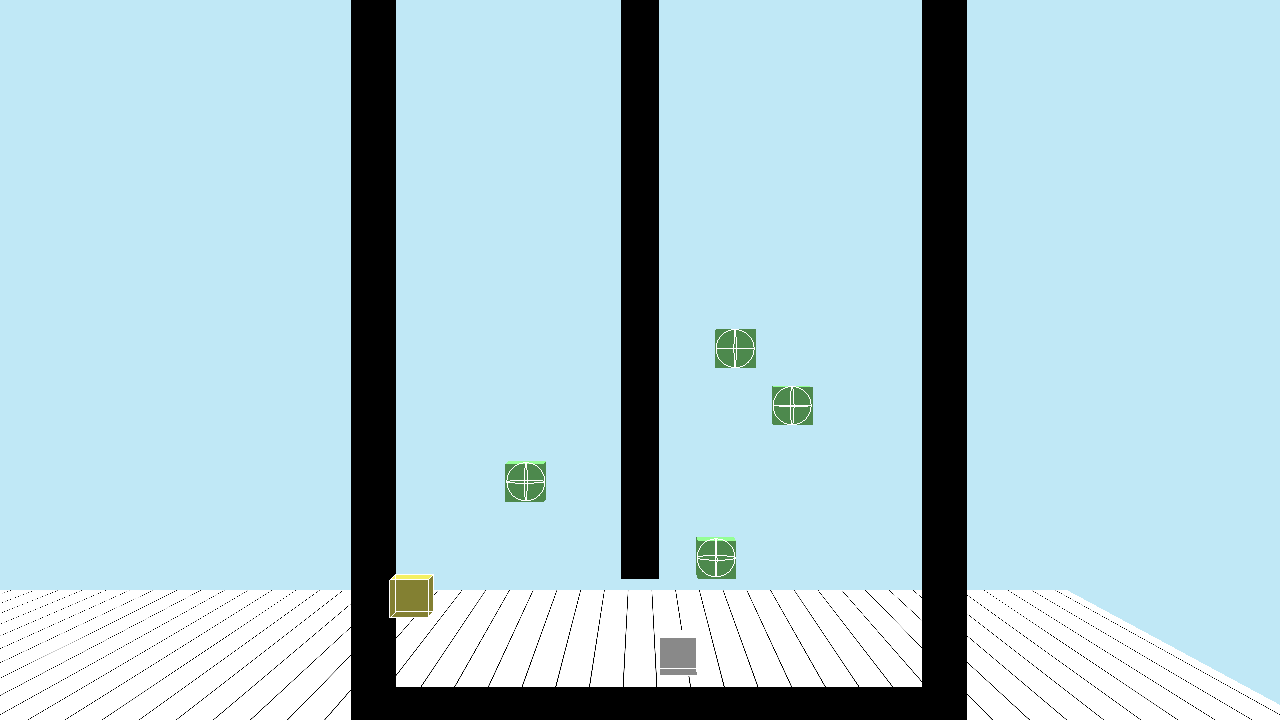
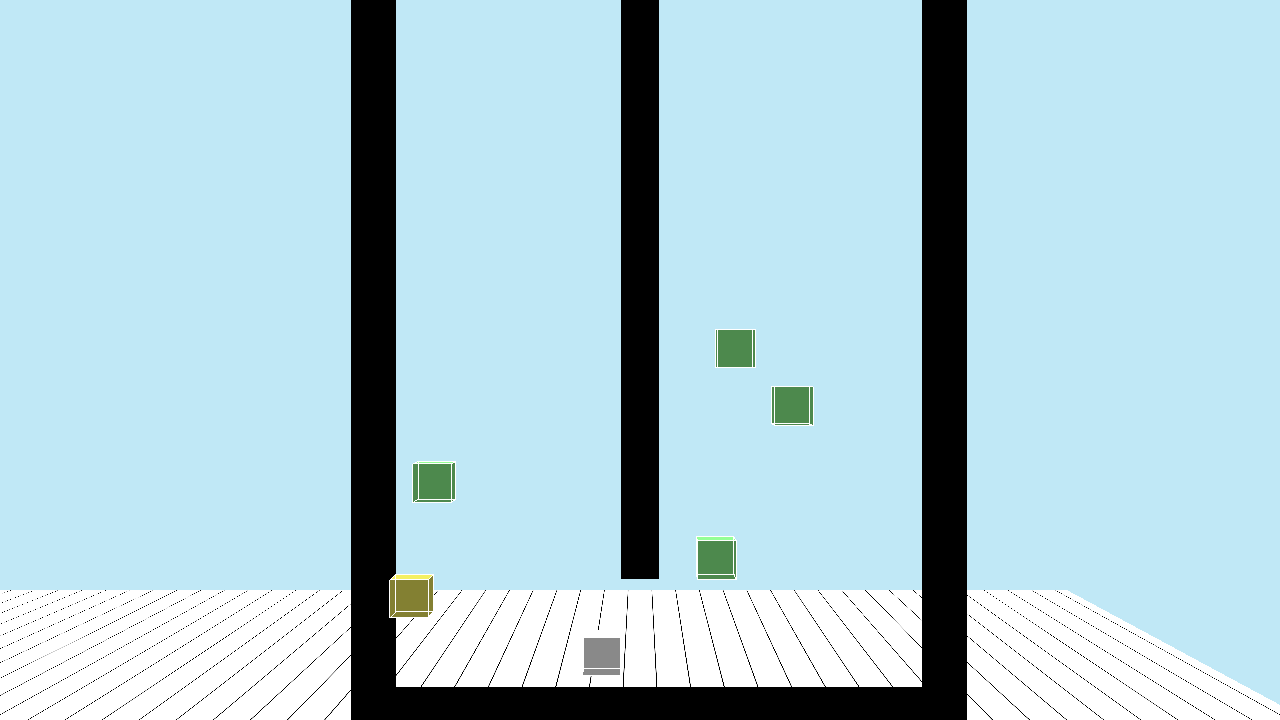
プレイヤーの位置に草の描画

diff --git a/Application/SpriteApp/ScreenApp/GameScreen.cpp b/Application/SpriteApp/ScreenApp/GameScreen.cpp
@@ -1,5 +1,11 @@
 #include "GameScreen.h"
 #include "Systems/Input/Input.h"
+#include "./Player/Player.h"
+#include "Systems/Camera/Camera.h"
+#include "../Core/WinApp/WinApp.h"
+// Math 
+#include "MathFunc.h"
+#include "Matrix4x4.h"
 
 void GameScreen::Initialize()
 {
@@ -36,8 +42,13 @@ void GameScreen::Initialize()
 	option_[5] = std::make_unique<UIBase>("Controller_5");
 	option_[5]->Initialize("Resources/JSON/UI/Controller_5.json");
 
+	grass_[0] = std::make_unique<UIBase>("Grass_0");
+	grass_[0]->Initialize("Resources/JSON/UI/Grass_0.json");
+	grass_[1] = std::make_unique<UIBase>("Grass_1");
+	grass_[1]->Initialize("Resources/JSON/UI/Grass_1.json");
 
-
+	//grass_[0]->SetCamera(camera_);
+	//grass_[1]->SetCamera(camera_);
 
 }
 
@@ -63,6 +74,31 @@ void GameScreen::Update()
 	{
 		option_[i]->Update();
 	}
+
+	///////////////////////////////////////////////////////////////////////////
+	// 
+	// 草のUIの更新処理
+	// 
+	///////////////////////////////////////////////////////////////////////////
+	for (UINT32 i = 0; i < numGrass_; i++)
+	{
+		Vector3 playerPos = player_->GetWorldTransform().translation_;
+		
+		Matrix4x4 matViewport = MakeViewportMatrix(0, 0, WinApp::kClientWidth, WinApp::kClientHeight, 0, 1);
+
+		Matrix4x4 matViewProjectionViewport = Multiply(camera_->GetViewMatrix(), Multiply(camera_->GetProjectionMatrix(), matViewport));
+
+		playerPos = Transform(playerPos, matViewProjectionViewport);
+		
+		playerPos += offset_;
+
+		grass_[i]->SetPosition(playerPos);
+
+		grass_[i]->Update();
+	}
+
+
+
 }
 
 void GameScreen::Draw()
@@ -71,6 +107,7 @@ void GameScreen::Draw()
 	{
 		background_[i]->Draw();
 	}
+
 
 	if (Input::GetInstance()->IsControllerConnected())
 	{
@@ -87,7 +124,10 @@ void GameScreen::Draw()
 		}
 	}
 
-
+	for (uint32_t i = 0; i < numGrass_; i++)
+	{
+		grass_[i]->Draw();
+	}
 
 
 }

diff --git a/Application/Scenes/MainScenes/Game/GameScene.cpp b/Application/Scenes/MainScenes/Game/GameScene.cpp
@@ -98,24 +98,14 @@ void GameScene::Initialize()
 	//Audio::GetInstance()->SetVolume(sourceVoice, 0.8f); // 80%の音量に設定
 
 
-	sprite_ = std::make_unique<Sprite>();
-	sprite_->Initialize("Resources/Textures/BackGround/KoboRB.png");
-	sprite_->SetSize(Vector2{ 100.0f,500.0f });
-	// sprite_->SetTextureSize(Vector2{ 1280,720 });
-
 	ParticleManager::GetInstance()->SetCamera(sceneCamera_.get());
 
 
-	//InitializeOcclusionQuery();
-
-	uiBase_ = std::make_unique<UIBase>("UIButton");
-	uiBase_->Initialize("Resources/JSON/UI/Button.json");
-
-	uiSub_ = std::make_unique<UIBase>("UISub");
-	uiSub_->Initialize("Resources/JSON/UI/Sub.json");
-
 	gameScreen_ = std::make_unique<GameScreen>();
+	gameScreen_->SetCamera(sceneCamera_.get());
+	gameScreen_->SetPlayer(player_.get());
 	gameScreen_->Initialize();
+	
 }
 
 /// <summary>
@@ -192,9 +182,6 @@ void GameScene::Update()
 	LightManager::GetInstance()->ShowLightingEditor();
 	CollisionManager::GetInstance()->Update();
 
-	sprite_->Update();
-	//uiBase_->Update();
-	//uiSub_->Update();
 	gameScreen_->Update();
 
 }
@@ -263,9 +250,6 @@ void GameScene::DrawObject()
 
 void GameScene::DrawSprite()
 {
-	sprite_->Draw();
-	//uiBase_->Draw();
-	//uiSub_->Draw();
 	gameScreen_->Draw();
 }
 

diff --git a/Application/Scenes/MainScenes/Game/GameScene.h b/Application/Scenes/MainScenes/Game/GameScene.h
@@ -176,8 +176,8 @@ private:
 
     =================================================================*/
     Vector3 weaponPos;
-    std::unique_ptr<Sprite> sprite_;
-    std::vector<std::unique_ptr<Sprite>> sprites;
+    //std::unique_ptr<Sprite> sprite_;
+    //std::vector<std::unique_ptr<Sprite>> sprites;
 	std::unique_ptr<GameScreen> gameScreen_;
 
     /*=================================================================
@@ -213,8 +213,6 @@ private:
     std::unique_ptr<MapChipInfo> mpInfo_;
     bool isClear_ = false;
 
-    std::unique_ptr<UIBase> uiBase_;
-    std::unique_ptr<UIBase> uiSub_;
 
 private:
     /*=================================================================

diff --git a/Application/SpriteApp/ScreenApp/GameScreen.h b/Application/SpriteApp/ScreenApp/GameScreen.h
@@ -1,6 +1,8 @@
 #pragma once
-
 #include "Systems/UI/UIBase.h"
+
+class Player;
+class Camera;
 class GameScreen
 {
 public:
@@ -23,8 +25,15 @@ public:
 	void Draw();
 	
 
+public:
+
+	void SetPlayer(Player* player) { player_ = player; }
+	void SetCamera(Camera* camera) { camera_ = camera; }
+
 private:
 
+	Player* player_ = nullptr;
+	Camera* camera_ = nullptr;
 	std::unique_ptr<UIBase> background_[2];
 	uint32_t numBGs_ = 2;
 
@@ -32,5 +41,9 @@ private:
 	uint32_t numOptions_ = 6;
 	uint32_t keyBoardOption_ = 3;
 	uint32_t controllerOption_ = 4;
+
+	std::unique_ptr<UIBase> grass_[2];
+	uint32_t numGrass_ = 2;
+	Vector3 offset_ = Vector3(20.0f, -40.0f, 0.0f);
 };
 
